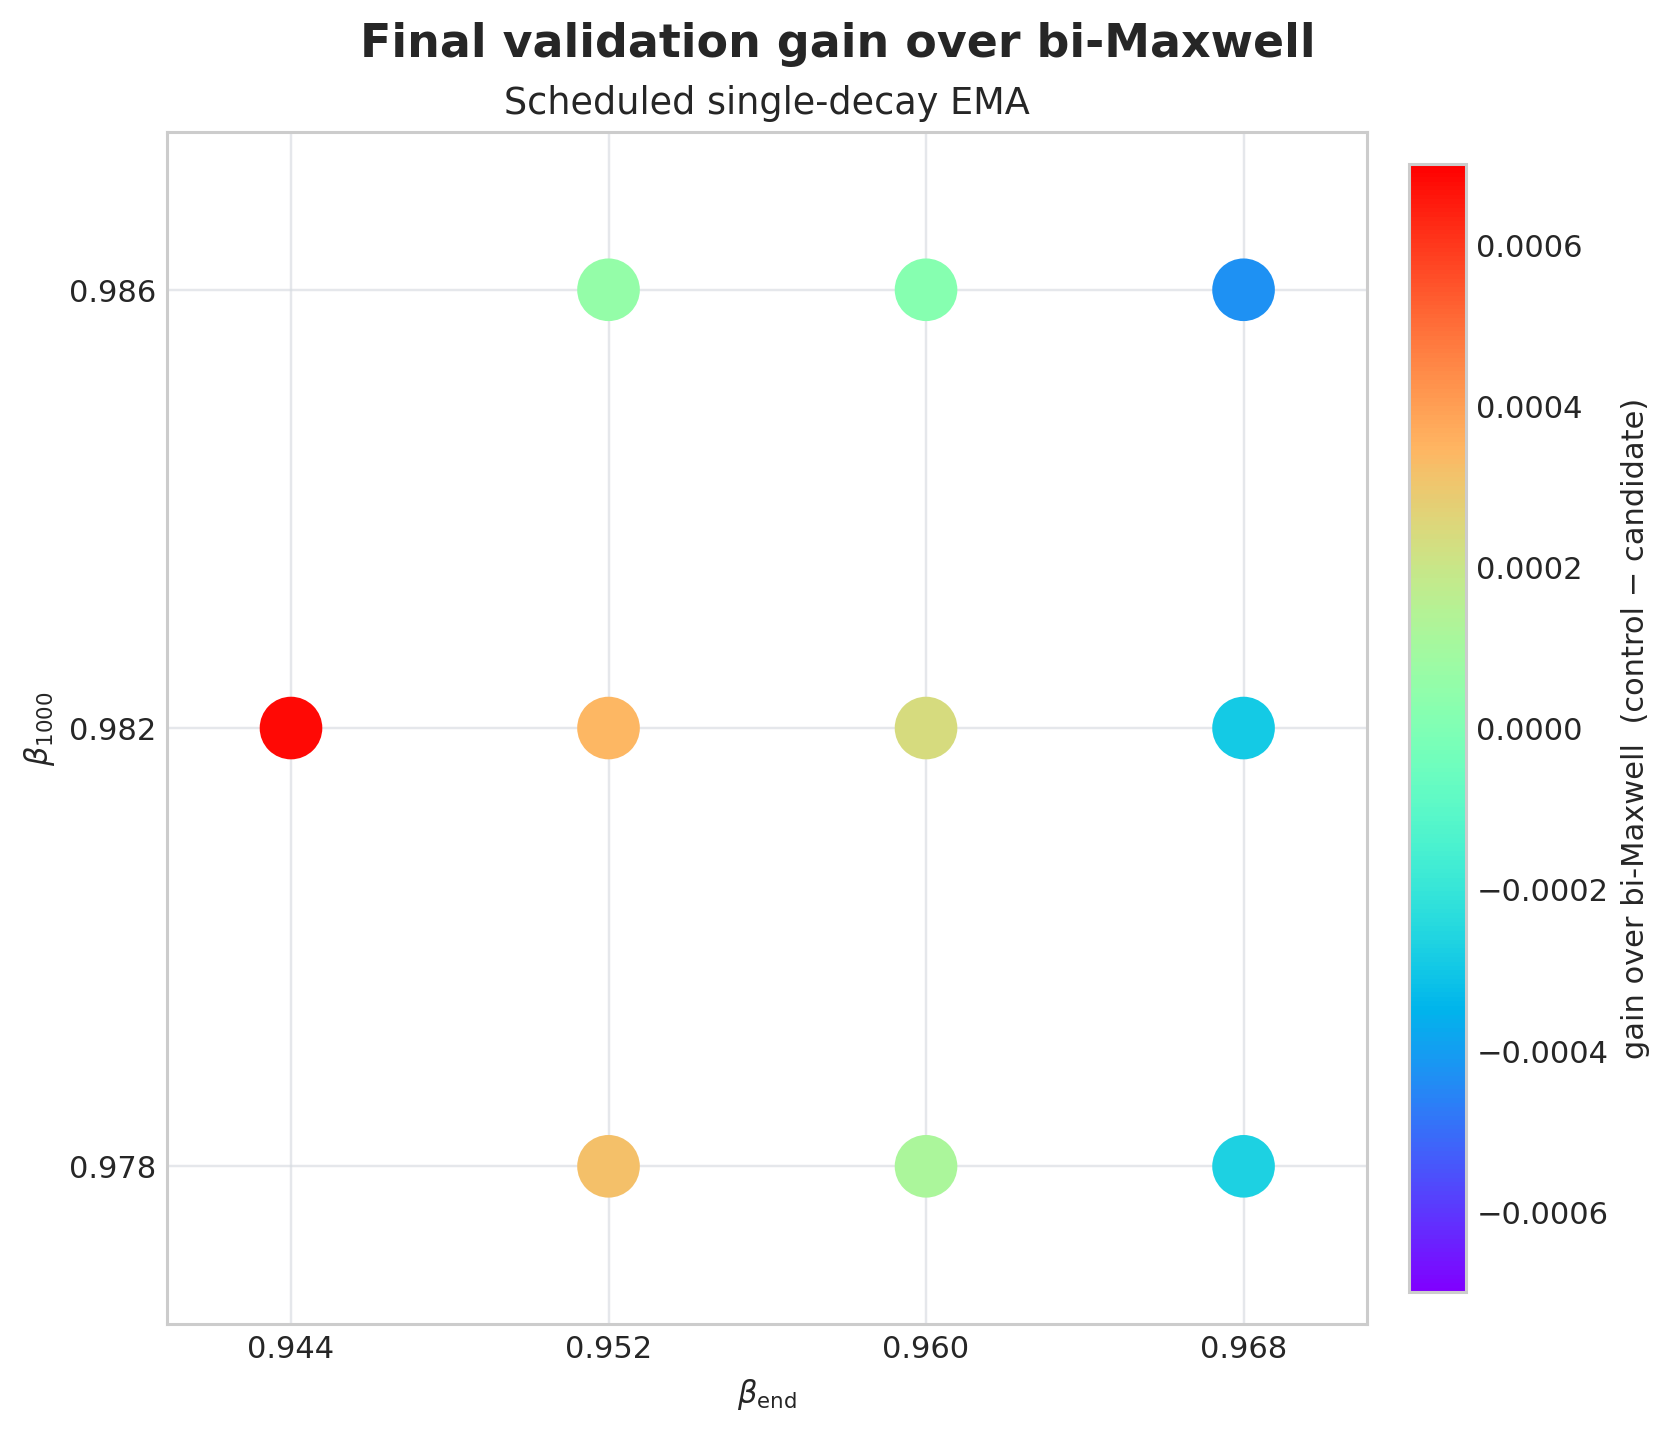
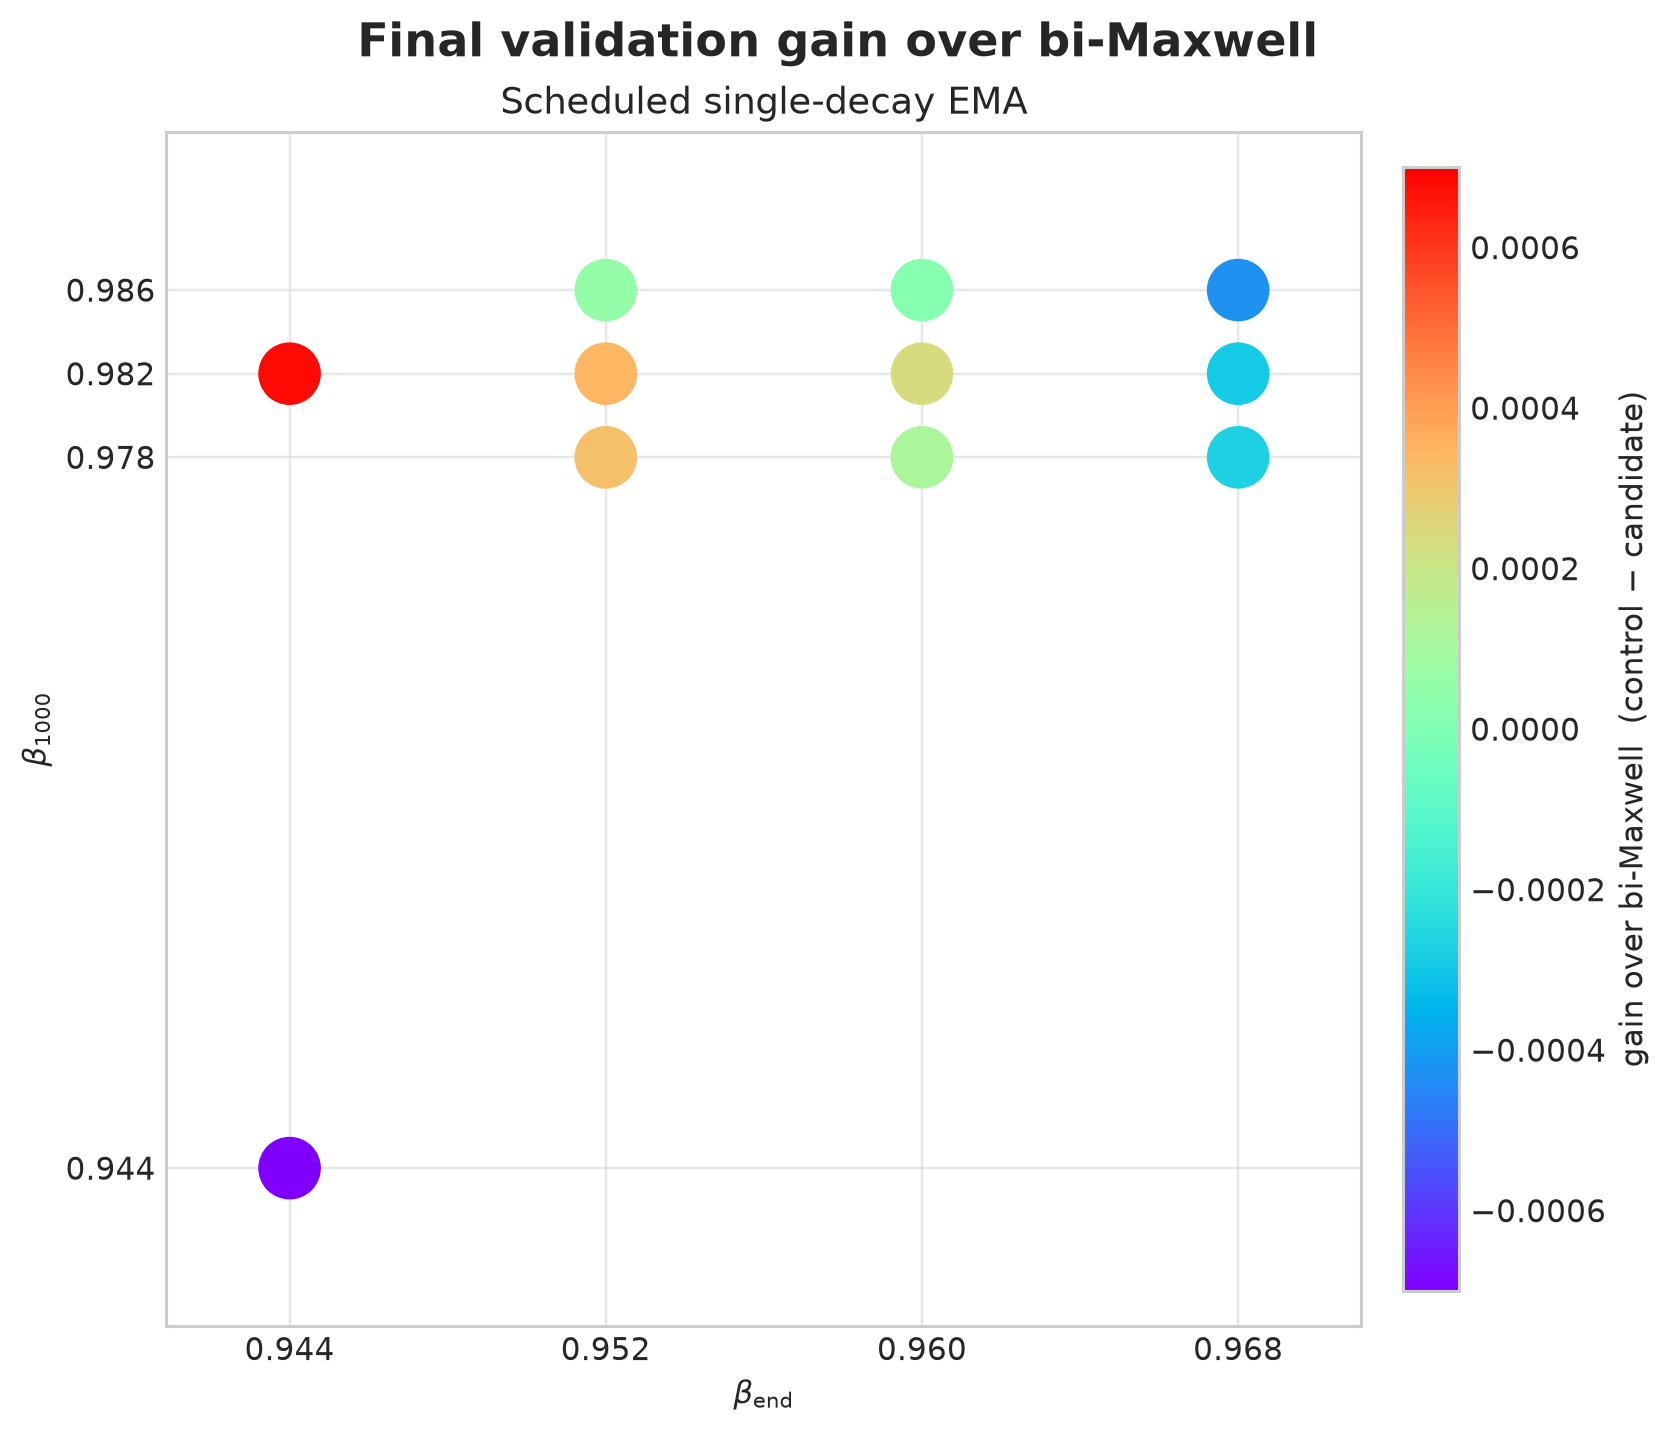
update momentum report with static endpoint control

diff --git a/reports/momentum-scheduling-2026-08-29/index.html b/reports/momentum-scheduling-2026-08-29/index.html
@@ -21,18 +21,21 @@
 <body>
 <main>
   <h1>Momentum scheduling discovery</h1>
-  <div class="stamp">Updated 2026-08-29 02:45 UTC · frozen seed-0 step-1000 forks</div>
+  <div class="stamp">Updated 2026-08-29 03:48 UTC · frozen seed-0 step-1000 forks</div>
   <div class="summary">
     Best completed scheduled EMA: <code>beta 0.982 → 0.944</code>, final loss
     <strong>3.27768</strong>, gain <strong>+0.00068</strong> over the paired
-    bi-Maxwell control. Power-law <code>gamma 0.75 → 1.00</code> finished at
-    3.28034, a gain of −0.00198. A static <code>beta 0.944</code> endpoint
-    control is running and is not plotted until it has a final value.
+    bi-Maxwell control. The static <code>beta 0.944 → 0.944</code> control
+    finished at <strong>3.28134</strong>, so the scheduled run beats the same
+    endpoint used throughout by 0.00366. The next boundary probe,
+    <code>beta 0.982 → 0.936</code>, is running. Power-law
+    <code>gamma 0.75 → 1.00</code> finished at 3.28034, a gain of −0.00198;
+    the first mean-age-matched probe, <code>gamma 1.28 → 1.66</code>, is queued.
   </div>
   <div class="plots">
     <figure>
       <img src="ema.png" alt="Matplotlib scatter plot of scheduled EMA results">
-      <figcaption>Evaluated EMA schedules only. Color is paired bi-Maxwell loss minus candidate loss; positive is better.</figcaption>
+      <figcaption>Evaluated EMA schedules plus the static 0.944 endpoint control. Color is paired bi-Maxwell loss minus candidate loss; positive is better.</figcaption>
     </figure>
     <figure>
       <img src="powerlaw.png" alt="Matplotlib scatter plot of scheduled power-law results">
